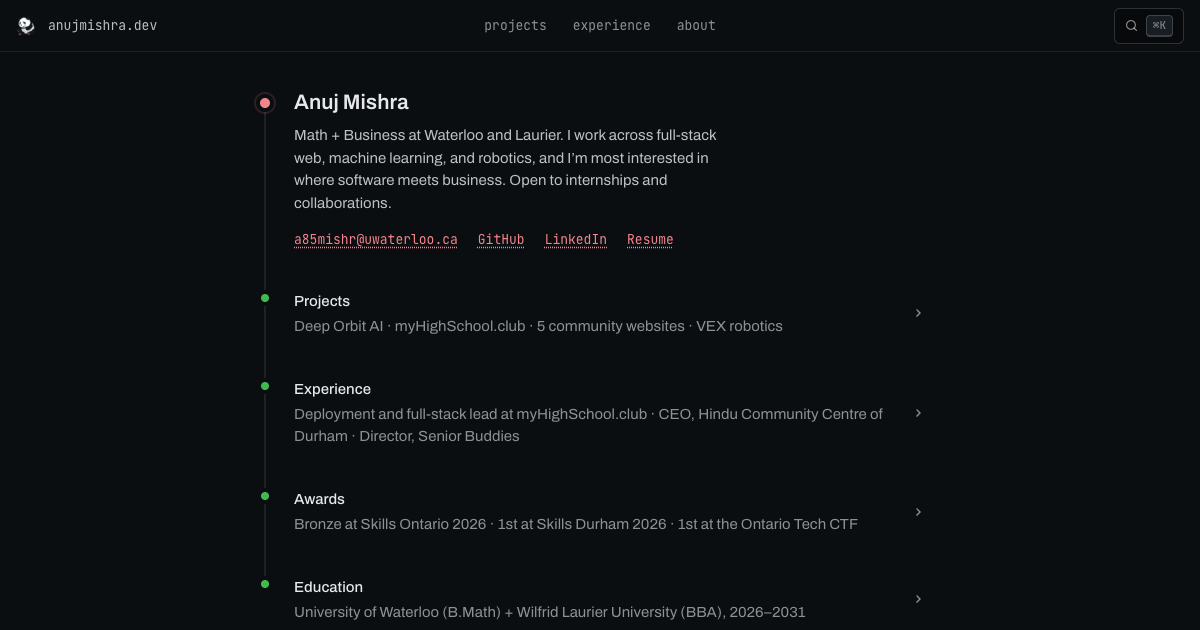
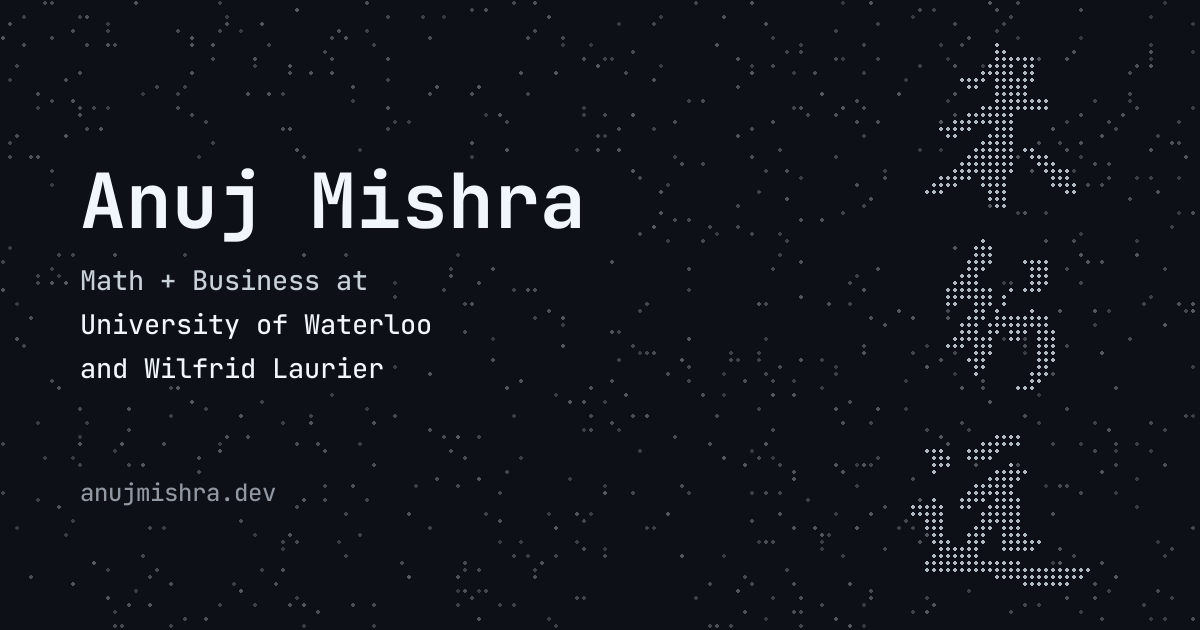
home: S27 internship line, visible email, new OG image
Transparent school logos and a Laurier purple badge, inline list dashes,
drop the built-with footer line, and bump the stylesheet version.

diff --git a/css/style.css b/css/style.css
@@ -23,6 +23,8 @@
     --bg: #ffffff;
     --fg: #1f2328;
     --fg-2: #3d444d;
+    --hl-bg: #dafbe1;
+    --hl-fg: #1a7f37;
     --muted: #59636e;
     --line: #d1d9e0;
     --badge-bg: #f6f8fa;
@@ -36,6 +38,8 @@
         --bg: #0d1117;
         --fg: #f0f6fc;
         --fg-2: #c9d1d9;
+        --hl-bg: rgba(46, 160, 67, 0.18);
+        --hl-fg: #56d364;
         --muted: #9198a1;
         --line: #3d444d;
         --badge-bg: #151b23;
@@ -49,6 +53,8 @@
     --bg: #0d1117;
     --fg: #f0f6fc;
     --fg-2: #c9d1d9;
+    --hl-bg: rgba(46, 160, 67, 0.18);
+    --hl-fg: #56d364;
     --muted: #9198a1;
     --line: #3d444d;
     --badge-bg: #151b23;
@@ -124,6 +130,18 @@ a:hover { text-decoration-color: currentColor; }
 .links { display: flex; flex-wrap: wrap; gap: 4px 16px; margin-top: 12px; font-size: 14px; }
 .links a { color: var(--muted); }
 .links a:hover { color: var(--fg); }
+.links .links__email { color: var(--fg); text-decoration-color: var(--muted); }
+
+/* Highlight chip, e.g. "S27 internships" */
+.hl {
+    padding: 1px 6px;
+    border-radius: 4px;
+    background: var(--hl-bg);
+    color: var(--hl-fg);
+    text-decoration: none;
+    font-weight: 500;
+}
+a.hl:hover { text-decoration: underline; text-underline-offset: 3px; }
 
 /* Language stack (GitHub-style bar) */
 .stack { margin-bottom: 28px; }
@@ -161,9 +179,13 @@ section li {
     margin-bottom: 10px;
 }
 section li::before {
+    /* Inline (not absolutely positioned) so the dash sits on the first line's
+       baseline even when a badge makes that line taller. */
     content: "-";
-    position: absolute;
-    left: 2px;
+    display: inline-block;
+    width: 18px;
+    margin-left: -18px;
+    padding-left: 2px;
     color: var(--muted);
 }
 
@@ -209,6 +231,10 @@ a.badge:hover { border-color: var(--muted); }
     border-color: color-mix(in srgb, var(--tint) 45%, var(--badge-line));
 }
 a.badge[style*="--tint"]:hover { border-color: var(--tint); }
+/* Laurier purple is very dark; use a stronger wash in light mode and a lighter purple in dark mode. */
+.badge--laurier[style*="--tint"] { background: color-mix(in srgb, var(--tint) 10%, var(--badge-bg)); border-color: color-mix(in srgb, var(--tint) 55%, var(--badge-line)); }
+:root[data-theme="dark"] .badge--laurier { --tint: #9b6fd6 !important; }
+@media (prefers-color-scheme: dark) { :root:not([data-theme="light"]) .badge--laurier { --tint: #9b6fd6 !important; } }
 .badge img { width: 14px; height: 14px; border-radius: 3px; flex: none; }
 
 /* Language + source line under a project, and trailing years. */
@@ -293,6 +319,10 @@ a.badge[style*="--tint"]:hover { border-color: var(--tint); }
 /* Languages */
 .name-note { margin-bottom: 16px; color: var(--fg-2); font-size: 14px; }
 .lang-native { margin-right: 6px; font-weight: 500; }
+.langs { display: grid; grid-template-columns: 1fr 1fr; gap: 6px 32px; margin: 10px 0 0; padding: 0; }
+section .langs li { display: flex; justify-content: space-between; align-items: center; line-height: 22px; gap: 12px; padding-left: 0; margin: 0; }
+section .langs li::before { content: none; }
+@media (max-width: 480px) { .langs { grid-template-columns: 1fr; } }
 [lang="zh"], [lang="hi"], [lang="gu"], [lang="pa"], [lang="ur"], [lang="bn"], [lang="pa-Arab"] {
     font-family: system-ui, -apple-system, 'Segoe UI', 'Noto Sans', sans-serif;
 }
@@ -373,3 +403,52 @@ section .tracks li::before { content: none; }
     .uses dd { margin-bottom: 8px; }
     .badge { white-space: normal; }
 }
+
+/* Photos: one bordered card. The stage shows the current shot over a
+   blurred copy of itself, then a caption bar, then a film strip.
+   js/lens.js wires it up and shuffles the order. */
+.lens { margin: 0; border: 1px solid var(--line); border-radius: 6px; overflow: hidden; background: var(--bg); }
+.lens__stage { position: relative; aspect-ratio: 3 / 2; overflow: hidden; background: var(--badge-bg); touch-action: pan-y; }
+.lens__bg {
+    position: absolute; inset: 0; width: 100%; height: 100%; object-fit: cover;
+    filter: blur(32px) saturate(1.3); opacity: .55; transform: scale(1.3);
+}
+.lens__open { position: absolute; inset: 0; display: flex; justify-content: center; align-items: center; border: 0; cursor: zoom-in; }
+.lens__img { height: 100%; width: auto; max-width: 100%; object-fit: contain; box-shadow: 0 0 24px rgba(0, 0, 0, .25); }
+.lens__img, .lens__bg { transition: opacity .25s; }
+.lens__stage.is-swapping .lens__img { opacity: 0; }
+.lens__stage.is-swapping .lens__bg { opacity: 0; }
+.lens__img:not([src]), .lens__bg:not([src]) { visibility: hidden; }
+
+.lens__bar {
+    display: flex; align-items: center; gap: 12px; margin: 0; padding: 8px 8px 8px 12px;
+    border-top: 1px solid var(--line); border-bottom: 1px solid var(--line); font-size: 13px;
+}
+.lens__cap { flex: 1; min-width: 0; color: var(--fg); white-space: nowrap; overflow: hidden; text-overflow: ellipsis; }
+.lens__count { color: var(--muted); font-variant-numeric: tabular-nums; }
+.lens__btn {
+    width: 28px; height: 26px; border: 1px solid var(--badge-line); border-radius: 6px;
+    background: var(--badge-bg); color: var(--fg); font: inherit; line-height: 1; cursor: pointer;
+}
+.lens__btn:hover { border-color: var(--muted); }
+.lens__btn + .lens__btn { margin-left: -6px; }
+
+/* Thumbnail strip: scrolls sideways, keeps the current frame centred,
+   and fades out at both ends. */
+.lens__strip {
+    display: flex; gap: 6px; margin: 0; padding: 10px 8px; list-style: none;
+    overflow-x: auto; scrollbar-width: none; background: var(--badge-bg);
+    -webkit-mask-image: linear-gradient(90deg, transparent, #000 40px, #000 calc(100% - 40px), transparent);
+            mask-image: linear-gradient(90deg, transparent, #000 40px, #000 calc(100% - 40px), transparent);
+}
+.lens__strip::-webkit-scrollbar { display: none; }
+section .lens__strip li { flex: none; padding-left: 0; margin: 0; }
+section .lens__strip li::before { content: none; }
+.lens__strip a { display: block; border: 0; border-radius: 4px; overflow: hidden; }
+.lens__strip img { display: block; width: 60px; height: 40px; object-fit: cover; transition: opacity .15s; }
+.lens.is-live .lens__strip img { opacity: .45; }
+.lens.is-live .lens__strip a:hover img, .lens.is-live .lens__strip a[aria-current] img { opacity: 1; }
+.lens__strip a[aria-current] { outline: 2px solid var(--fg); outline-offset: -2px; }
+.lens__strip a:focus-visible { outline: 2px solid var(--link, var(--fg)); outline-offset: 1px; }
+@media (prefers-reduced-motion: reduce) { .lens__img, .lens__bg, .lens__strip img { transition: none; } }
+@media (max-width: 480px) { .lens__stage { aspect-ratio: 4 / 5; } }

diff --git a/index.html b/index.html
@@ -15,21 +15,21 @@
     <meta property="og:url" content="https://anujmishra.dev/">
     <meta property="og:title" content="Anuj Mishra">
     <meta property="og:description" content="Full-stack web, machine learning, and robotics projects, experience, and contact.">
-    <meta property="og:image" content="https://anujmishra.dev/images/og.png">
+    <meta property="og:image" content="https://anujmishra.dev/images/og.png?v=2">
     <meta property="og:image:width" content="1200">
     <meta property="og:image:height" content="630">
-    <meta property="og:image:alt" content="Anuj Mishra's portfolio: projects, experience, and awards.">
+    <meta property="og:image:alt" content="Anuj Mishra, Math + Business at University of Waterloo and Wilfrid Laurier, with 米行远 drawn in dots.">
     <meta name="twitter:card" content="summary_large_image">
     <meta name="twitter:title" content="Anuj Mishra">
     <meta name="twitter:description" content="Full-stack web, machine learning, and robotics projects, experience, and contact.">
-    <meta name="twitter:image" content="https://anujmishra.dev/images/og.png">
-    <meta name="twitter:image:alt" content="Anuj Mishra's portfolio: projects, experience, and awards.">
+    <meta name="twitter:image" content="https://anujmishra.dev/images/og.png?v=2">
+    <meta name="twitter:image:alt" content="Anuj Mishra, Math + Business at University of Waterloo and Wilfrid Laurier, with 米行远 drawn in dots.">
 
     <link rel="icon" href="favicon.ico" sizes="any">
     <link rel="icon" href="images/panda.png" type="image/png">
     <link rel="apple-touch-icon" href="images/panda.png">
     <link rel="preload" href="fonts/jetbrains-mono-variable.woff2" as="font" type="font/woff2" crossorigin>
-    <link rel="stylesheet" href="css/style.css?v=18">
+    <link rel="stylesheet" href="css/style.css?v=24">
     <script>
     (function () {
         try {
@@ -51,9 +51,9 @@
                     <a href="writing/">writing</a>
                 </nav>
             </div>
-            <p>Math + Business at <a class="badge" style="--tint:#ecac39" href="https://uwaterloo.ca/math/" target="_blank" rel="noopener" title="Faculty of Mathematics, University of Waterloo"><img src="images/badges/uwaterloo.png" alt="" width="16" height="16">University of Waterloo</a> and <a class="badge" style="--tint:#fdb811" href="https://www.wlu.ca/academics/faculties/lazaridis-school-of-business-and-economics/index.html" target="_blank" rel="noopener" title="Lazaridis School of Business and Economics, Wilfrid Laurier University"><img src="images/badges/laurier.png" alt="" width="16" height="16">Wilfrid Laurier</a></p>
+            <p>Math + Business at <a class="badge" style="--tint:#ecac39" href="https://uwaterloo.ca/math/" target="_blank" rel="noopener" title="Faculty of Mathematics, University of Waterloo"><img src="images/badges/uwaterloo.png" alt="" width="16" height="16">University of Waterloo</a> and <a class="badge badge--laurier" style="--tint:#330072" href="https://www.wlu.ca/academics/faculties/lazaridis-school-of-business-and-economics/index.html" target="_blank" rel="noopener" title="Lazaridis School of Business and Economics, Wilfrid Laurier University"><img src="images/badges/laurier.png" alt="" width="16" height="16">Wilfrid Laurier</a></p>
             <nav class="links" aria-label="Contact">
-                <a href="mailto:a85mishr@uwaterloo.ca">email</a>
+                <a class="links__email" href="mailto:a85mishr@uwaterloo.ca">a85mishr@uwaterloo.ca</a>
                 <a href="https://github.com/anujmish1229" target="_blank" rel="noopener">github</a>
                 <a href="https://www.linkedin.com/in/anujmish/" target="_blank" rel="noopener">linkedin</a>
                 <a href="resume.pdf" target="_blank" rel="noopener">resume</a>
@@ -63,6 +63,7 @@
         <section aria-labelledby="h-now">
             <h2 id="h-now">Currently</h2>
             <ul>
+                <li>Looking for <a class="hl" href="mailto:a85mishr@uwaterloo.ca?subject=S27%20internship">S27 internships</a> (May to August 2027)</li>
                 <li>In 1A, my first term of the double degree</li>
                 <li>Founding engineer at a stealth startup, on ML and UI/UX <span class="when">since Sep 2026</span></li>
                 <li data-spotify hidden></li>
@@ -152,7 +153,7 @@
         </section>
 
         <footer class="foot">
-            <span>Anuj Mishra, 2026. Built with plain HTML, CSS and JS</span>
+            <span>Anuj Mishra, 2026</span>
             <span class="foot__right">
                 <button type="button" class="theme" data-theme-toggle><span class="to-dark">dark mode</span><span class="to-light">light mode</span></button>
                 <a href="https://github.com/anujmish1229/anujmishra.dev" target="_blank" rel="noopener">source</a>

diff --git a/writing/index.html b/writing/index.html
@@ -13,7 +13,7 @@
     <link rel="icon" href="../favicon.ico" sizes="any">
     <link rel="icon" href="../images/panda.png" type="image/png">
     <link rel="preload" href="../fonts/jetbrains-mono-variable.woff2" as="font" type="font/woff2" crossorigin>
-    <link rel="stylesheet" href="../css/style.css?v=18">
+    <link rel="stylesheet" href="../css/style.css?v=24">
     <script>
     (function () {
         try {
@@ -49,7 +49,7 @@
         </section>
 
         <footer class="foot">
-            <span>Anuj Mishra, 2026. Built with plain HTML, CSS and JS</span>
+            <span>Anuj Mishra, 2026</span>
             <span class="foot__right">
                 <button type="button" class="theme" data-theme-toggle><span class="to-dark">dark mode</span><span class="to-light">light mode</span></button>
                 <a href="feed.xml">rss</a>

diff --git a/writing/technology-is-getting-thicker.html b/writing/technology-is-getting-thicker.html
@@ -17,7 +17,7 @@
     <link rel="icon" href="../favicon.ico" sizes="any">
     <link rel="icon" href="../images/panda.png" type="image/png">
     <link rel="preload" href="../fonts/jetbrains-mono-variable.woff2" as="font" type="font/woff2" crossorigin>
-    <link rel="stylesheet" href="../css/style.css?v=18">
+    <link rel="stylesheet" href="../css/style.css?v=24">
     <script>
     (function () {
         try {
@@ -70,7 +70,7 @@
         </article>
 
         <footer class="foot">
-            <span>Anuj Mishra, 2026. Built with plain HTML, CSS and JS</span>
+            <span>Anuj Mishra, 2026</span>
             <span class="foot__right">
                 <button type="button" class="theme" data-theme-toggle><span class="to-dark">dark mode</span><span class="to-light">light mode</span></button>
                 <a href="feed.xml">rss</a>

diff --git a/404.html b/404.html
@@ -10,7 +10,7 @@
     <meta name="color-scheme" content="light dark">
     <link rel="icon" href="/favicon.ico" sizes="any">
     <link rel="icon" href="/images/panda.png" type="image/png">
-    <link rel="stylesheet" href="/css/style.css?v=18">
+    <link rel="stylesheet" href="/css/style.css?v=24">
     <script>
     (function () {
         try {
